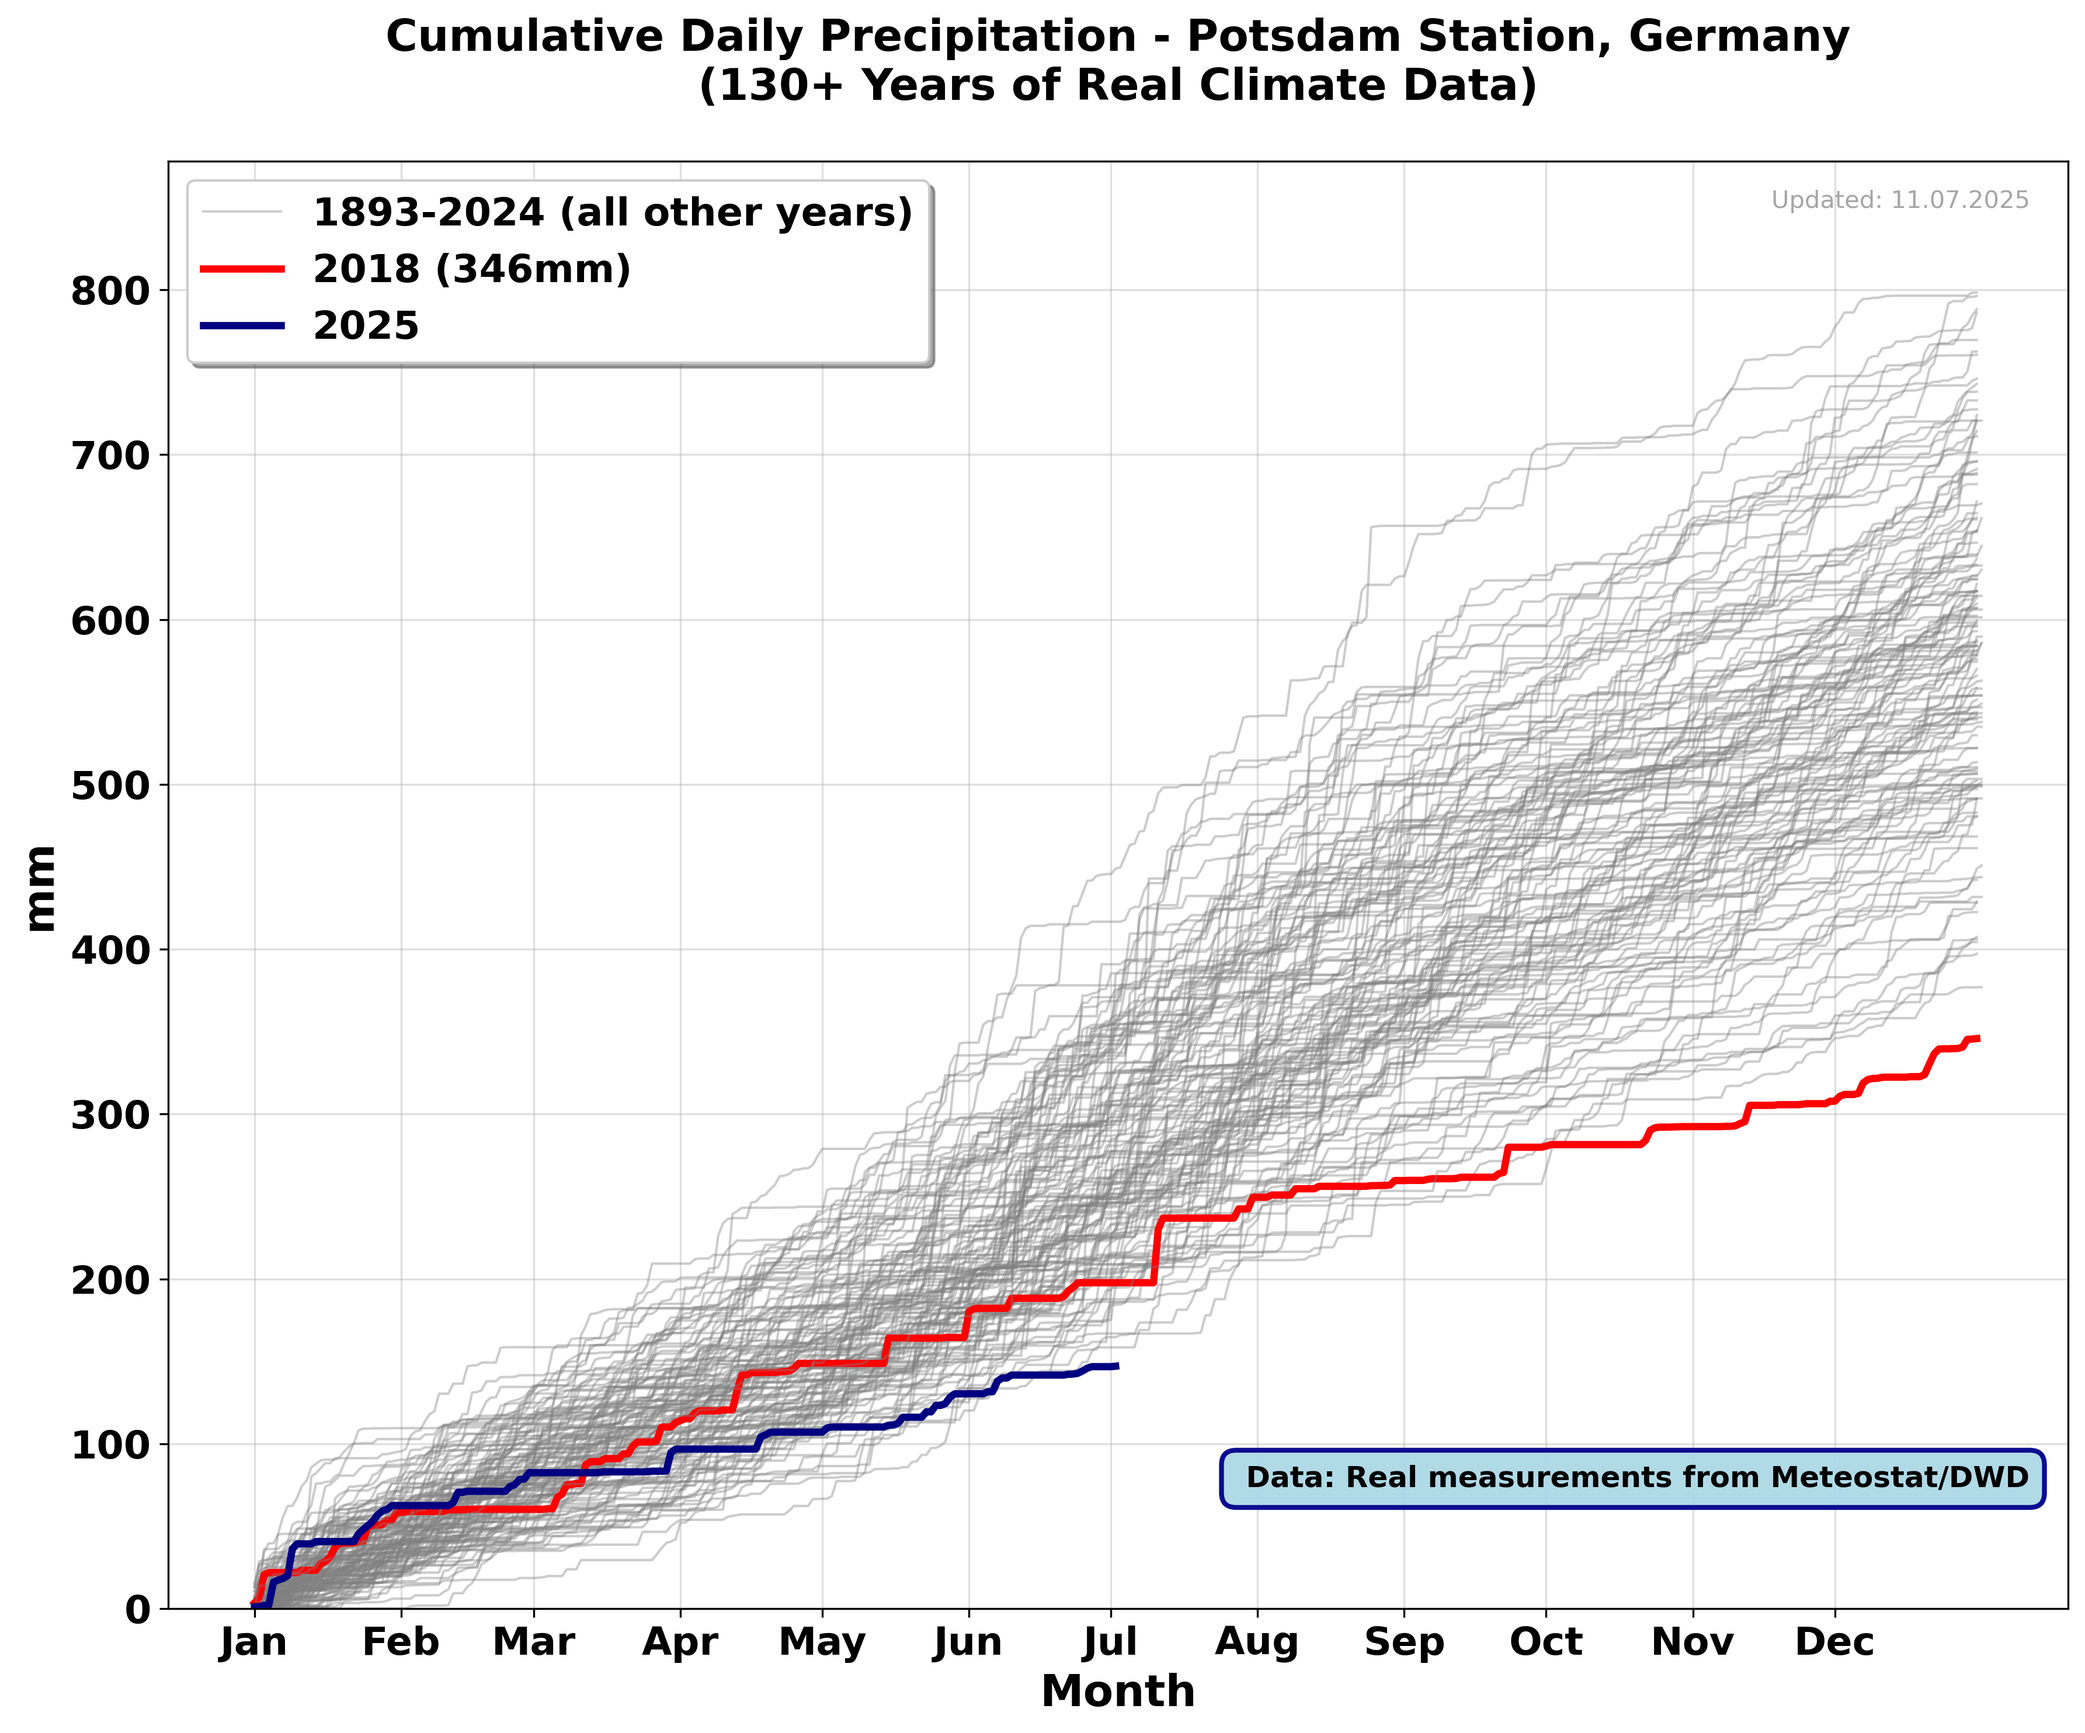
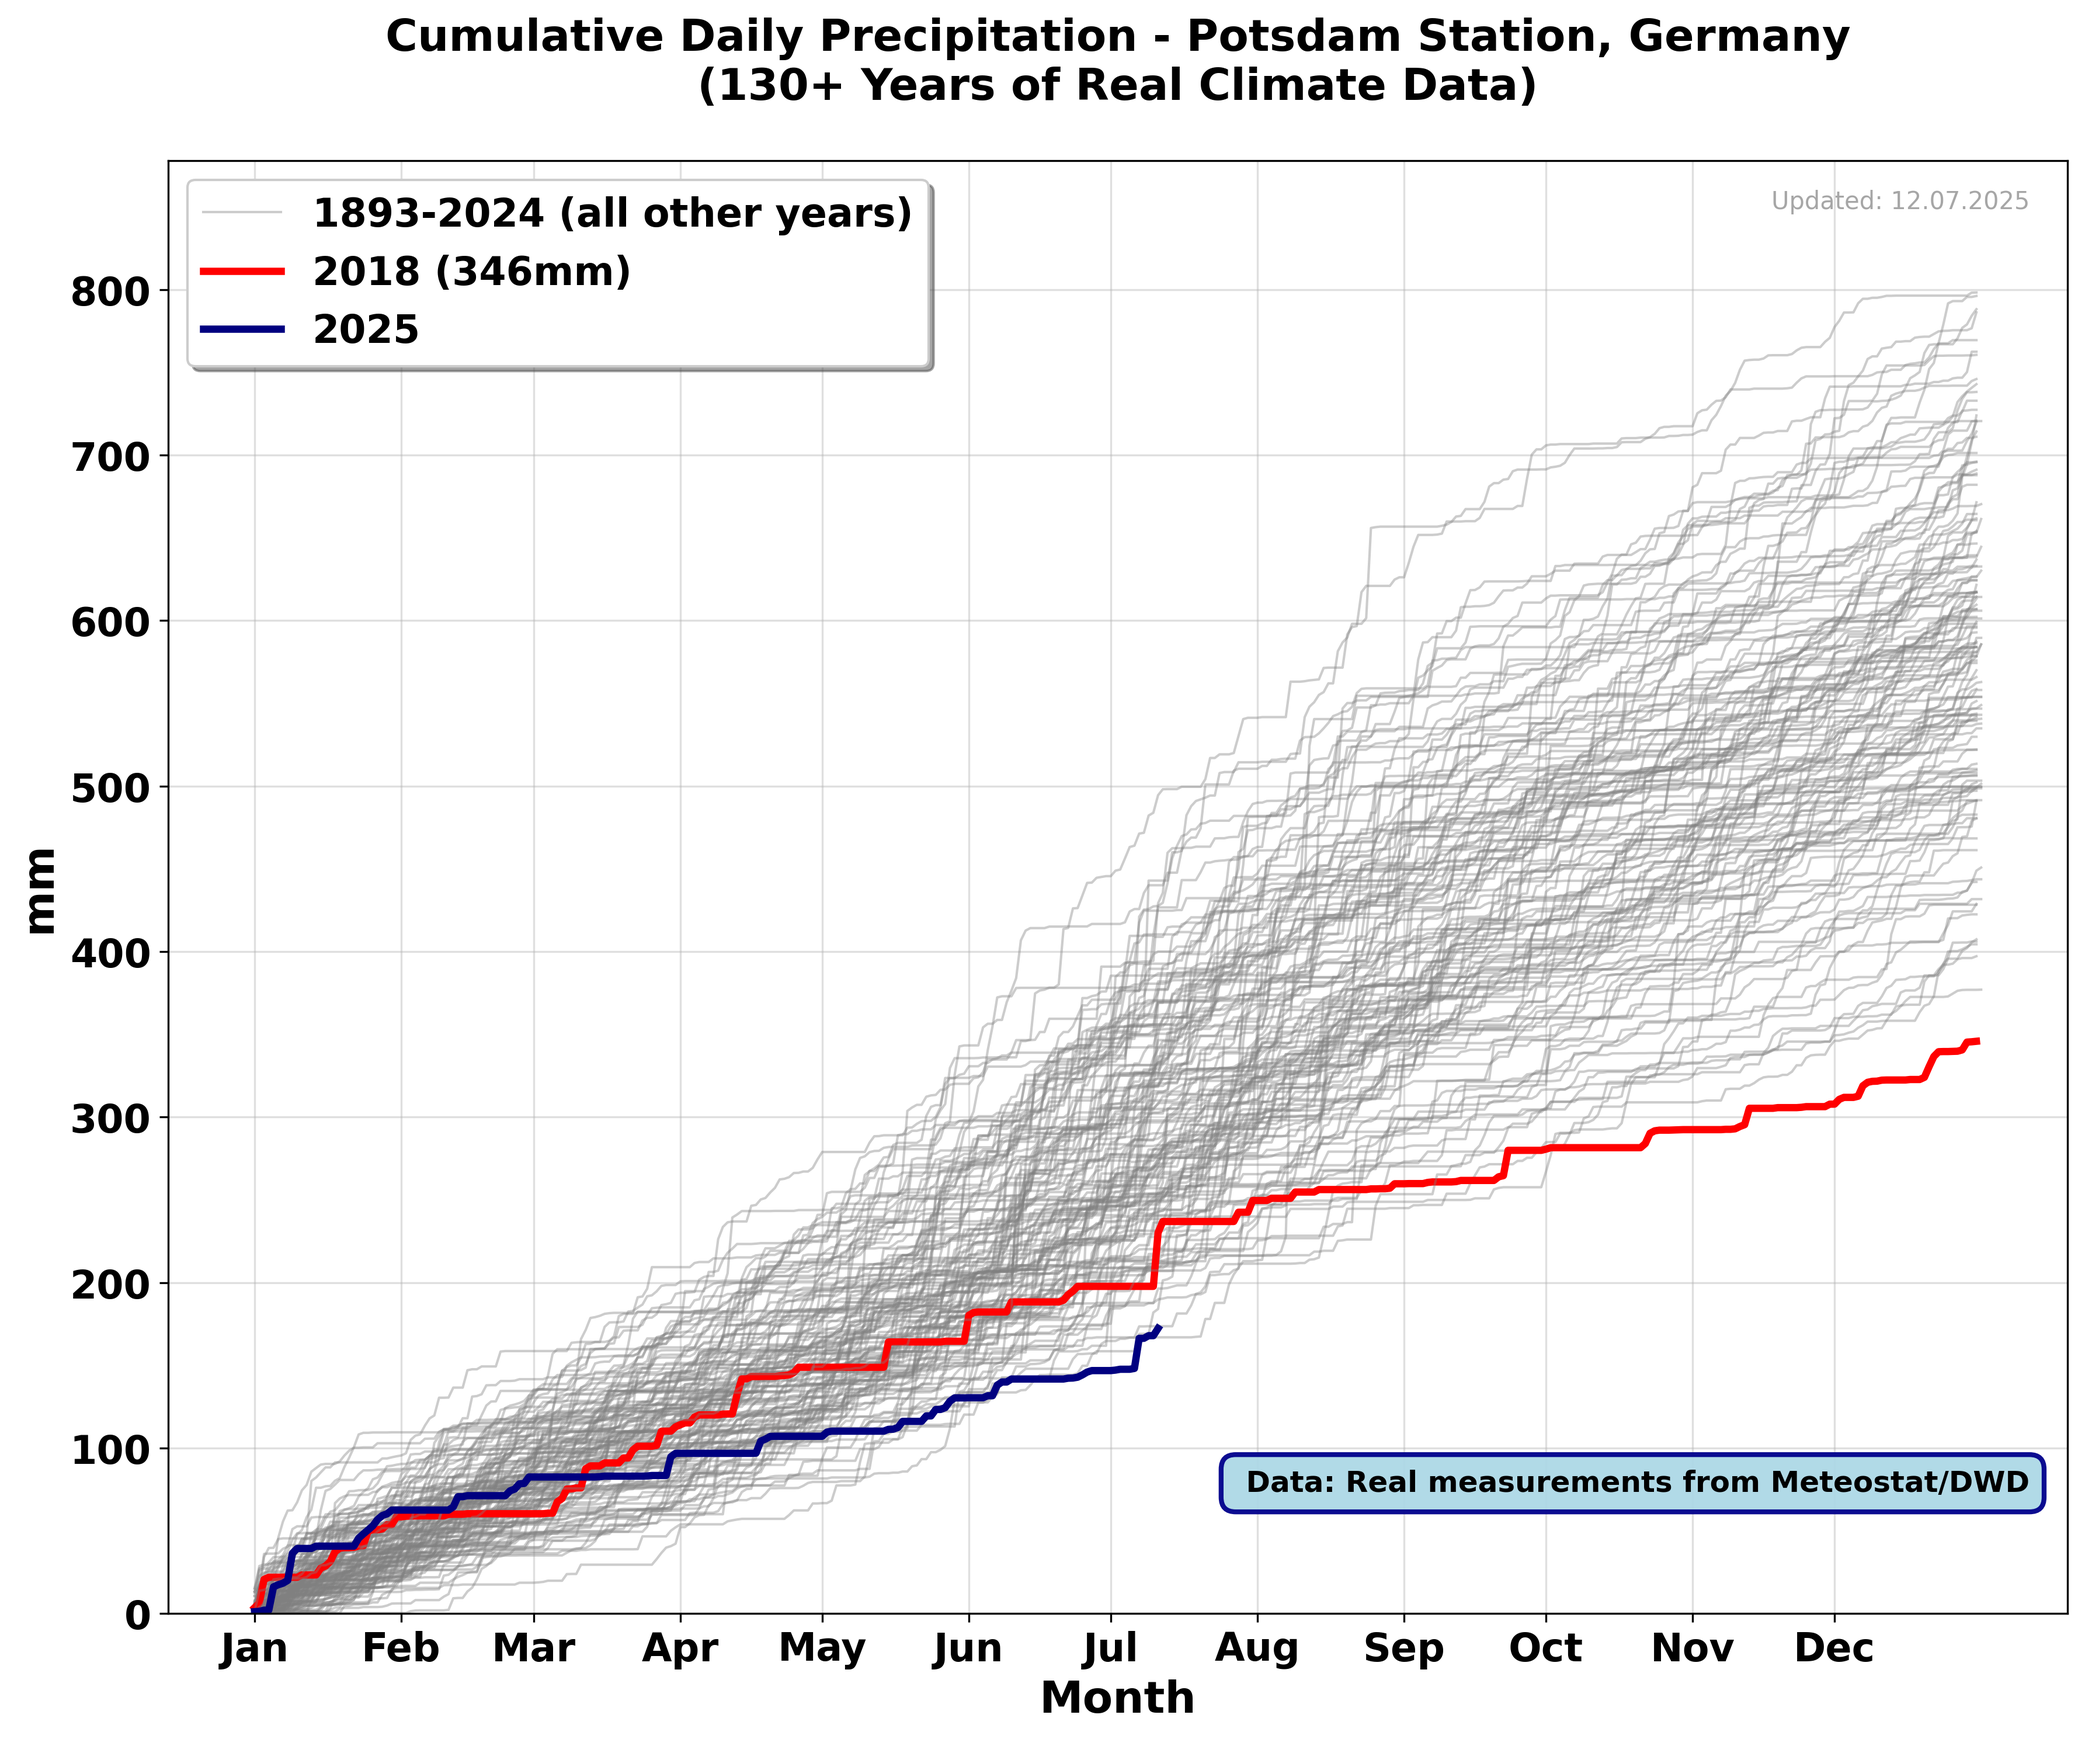
update the plot

diff --git a/real_precipitation_plot.py b/real_precipitation_plot.py
@@ -43,7 +43,7 @@ def get_real_precipitation_data():
         start = datetime(year, 1, 1)
         # For 2025, only get data up to current date
         if year == 2025:
-            end = datetime(2025, 7, 2)  # Up to July 2nd
+            end = datetime(2025, 7, 11)  # Up to July 2nd
         else:
             end = datetime(year, 12, 31)
         
